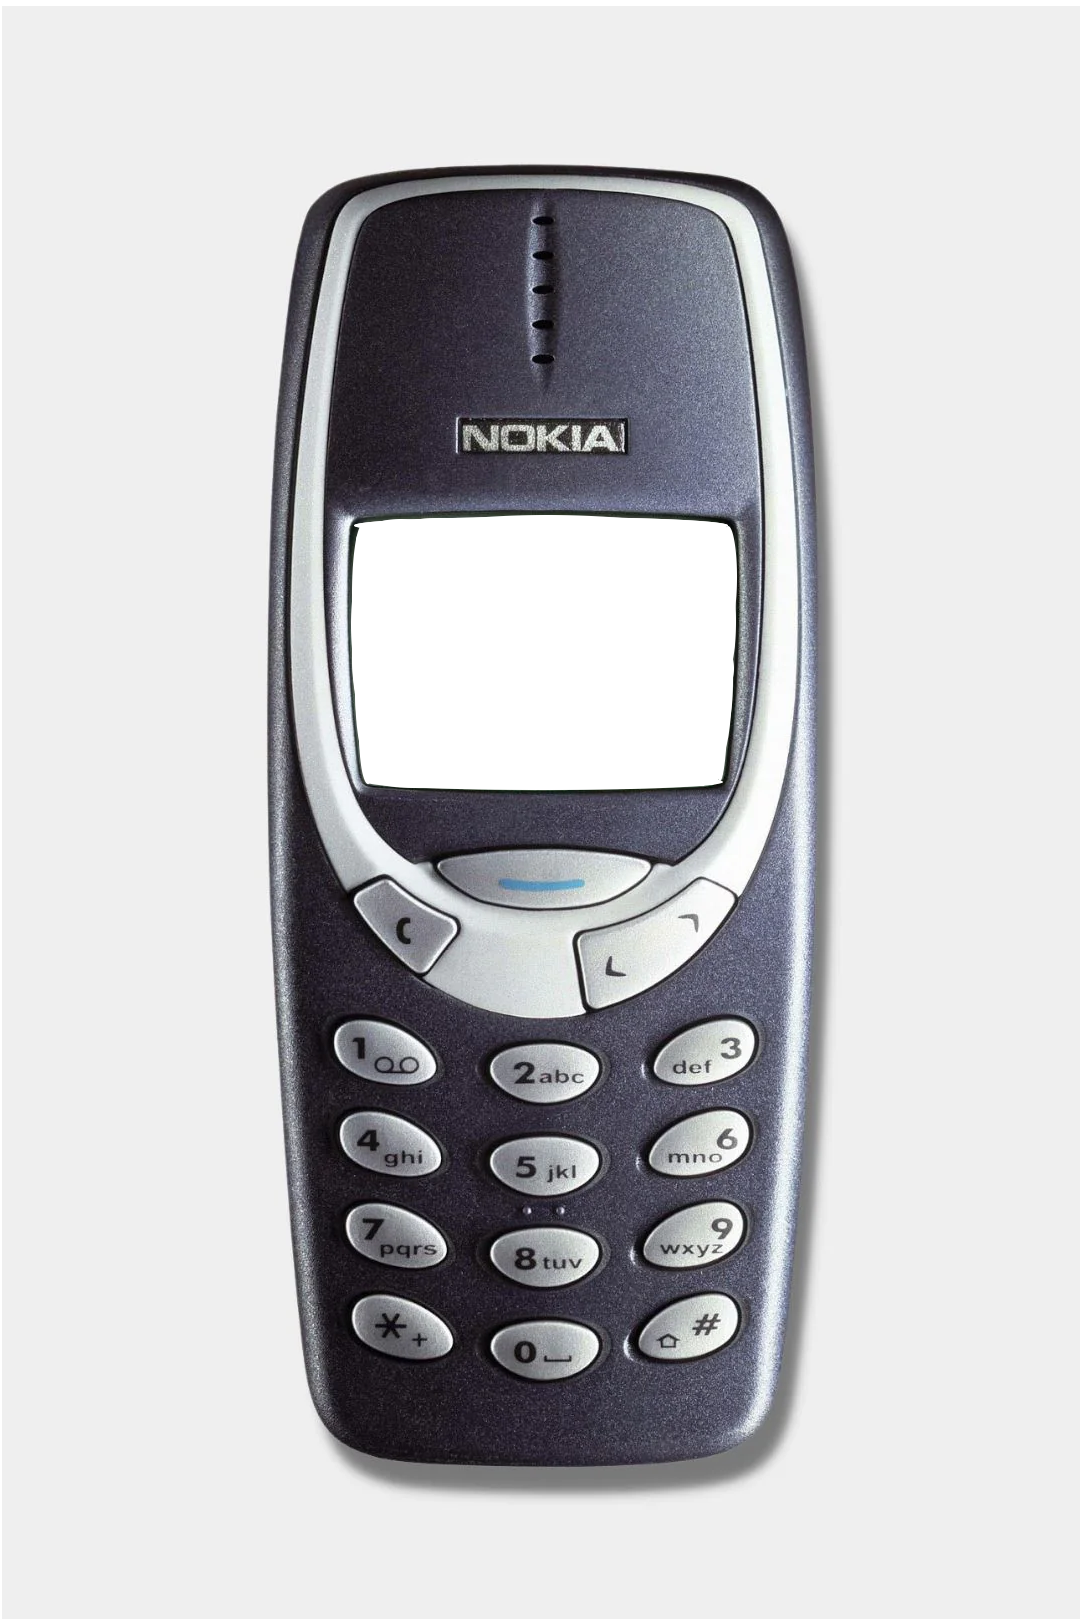
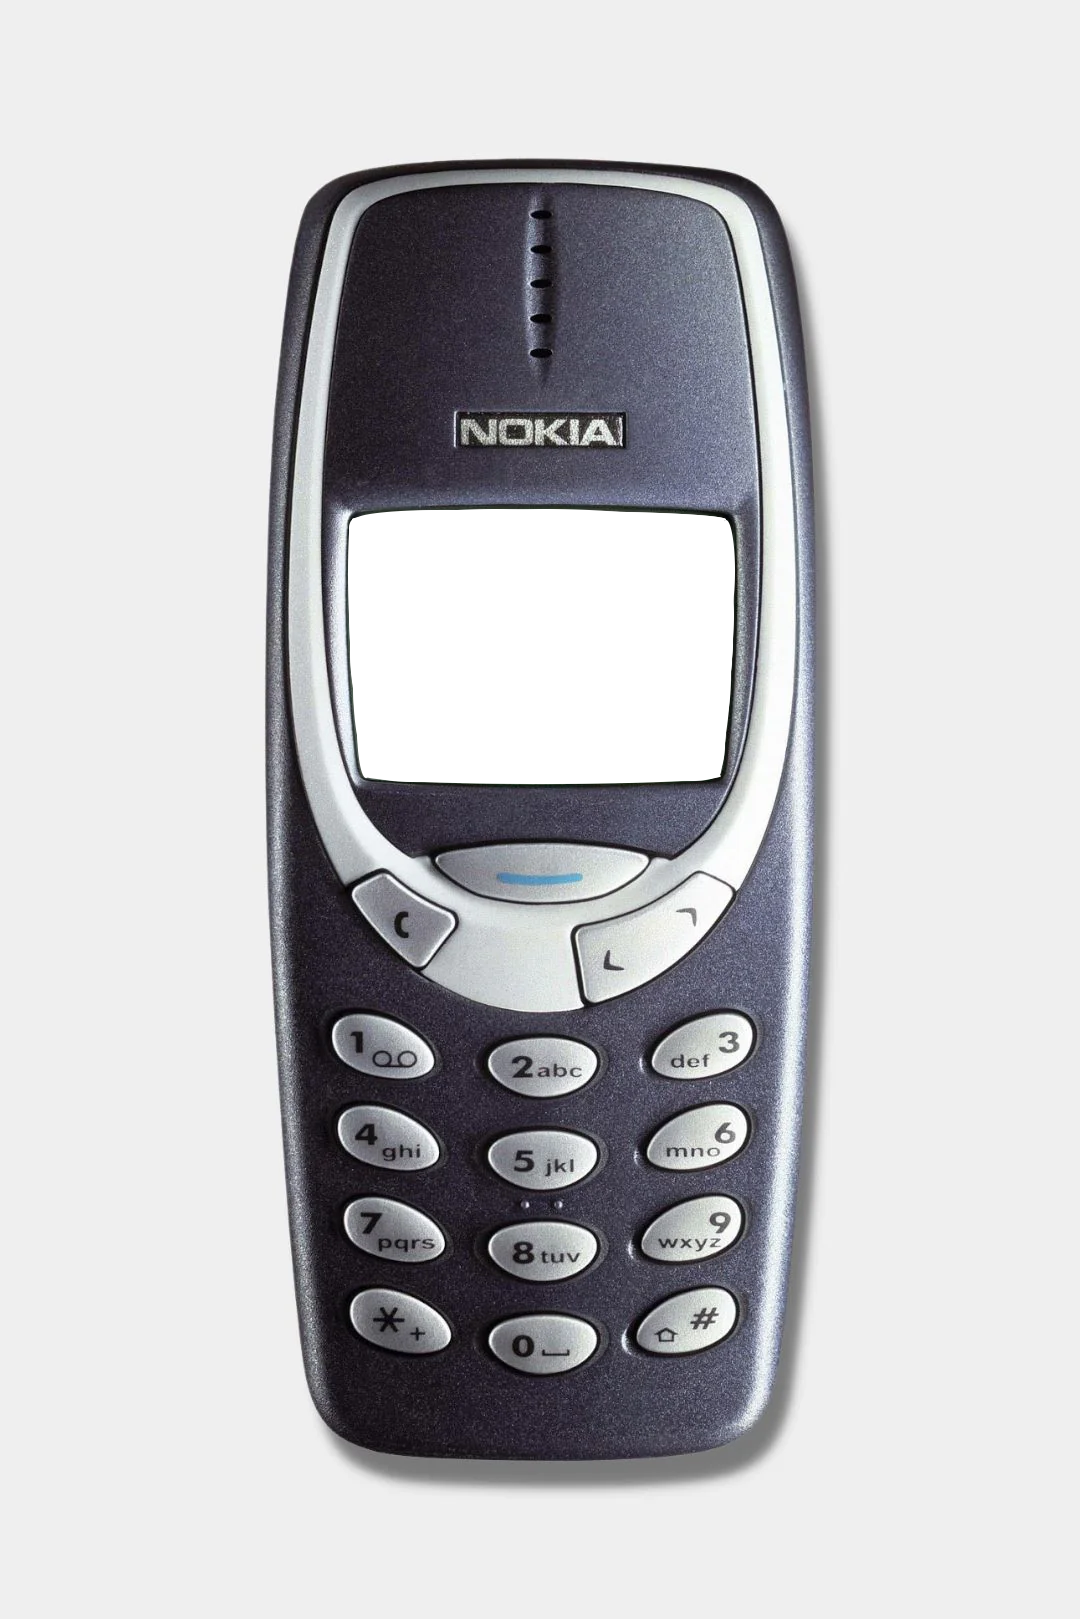
better images

Changed region(s): [[0.2444, 0.0926, 0.7639, 0.9265]]

diff --git a/app/nokia.tsx b/app/nokia.tsx
@@ -226,15 +226,15 @@ export default function Nokia3310Simulator() {
 	}, []);
 
 	return (
-		<div className="bg-[#EFEFEF] select-none h-dvh w-screen overflow-hidden flex flex-col items-center pt-10 p-4 touch-none">
+		<div className="z-[0] bg-[#EFEFEF] select-none h-dvh w-screen overflow-hidden flex flex-col items-center pt-10 p-4 touch-none">
 			<div className="relative w-[400px] h-[580px]">
 				{/* Nokia 3310 Image */}
 				<div className="relative w-full h-full">
 					<Image
-						src="/nokia-3310.png"
+						src="/nokia-3310-bg.png"
 						alt="Nokia 3310"
 						fill
-						className="object-contain touch-none"
+						className="z-[6] object-contain touch-none"
 						priority
 						loading="eager"
 						sizes="400px"
@@ -242,19 +242,19 @@ export default function Nokia3310Simulator() {
 
 					{/* Screen Overlay */}
 
-					<div className="absolute shadow-[inset_0_2px_4px_0_rgb(0_0_0_/_0.55)] rounded-t-sm rounded-b-[12px] top-[185px] left-[130px] w-[141px] h-[93px] bg-[#94C7A1] flex flex-col items-center justify-center px-2 font-mono text-black text-sm">
+					<div className="absolute z-[5] shadow-[inset_0px_2px_5px_4px_rgb(0_0_0_/_0.5)] rounded-t-sm rounded-b-[12px] top-[180px] left-[130px] w-[141px] h-[102px] bg-[#94C7A1] flex flex-col items-center justify-center p-2 overflow-scroll font-mono text-black text-sm">
 						<div className="absolute inset-0 grid grid-cols-[repeat(47,1fr)] grid-rows-[repeat(33,1fr)] pointer-events-none">
 							{[...Array(47 * 33)].map((_, i) => (
 								<div
 									key={`pixel-${Math.floor(i / 47)}-${i % 47}`}
-									className="border-[0.2px] border-black/5"
+									className="border-[0.1px] border-gray-500/5"
 								/>
 							))}
 						</div>
 
-						<div className="w-full h-full p-1 overflow-hidden">
-							<div className="text-xs mb-1">New message</div>
-							<div className="text-sm break-words overflow-hidden">
+						<div className="w-full h-full font-mono p-0.5 overflow-hidden">
+							<div className="text-[10px] mb-0">New message</div>
+							<div className="text-xs break-words overflow-hidden">
 								{input || <span className="animate-pulse">_</span>}
 								{currentKey && <span className="animate-pulse">|</span>}
 							</div>
@@ -262,7 +262,7 @@ export default function Nokia3310Simulator() {
 					</div>
 
 					{/* Navigation Buttons */}
-					<div className="absolute top-[300px]">
+					<div className="z-10 absolute top-[300px]">
 						<button
 							type="button"
 							onClick={handleCenterPress}

diff --git a/app/layout.tsx b/app/layout.tsx
@@ -6,7 +6,7 @@ export const metadata: Metadata = {
 	title: "3310 - j3c7",
 	description: "The best phone ever?",
 	openGraph: {
-		images: [{ url: "/cover.jpeg" }],
+		images: [{ url: "/cover.png" }],
 	},
 };
 
